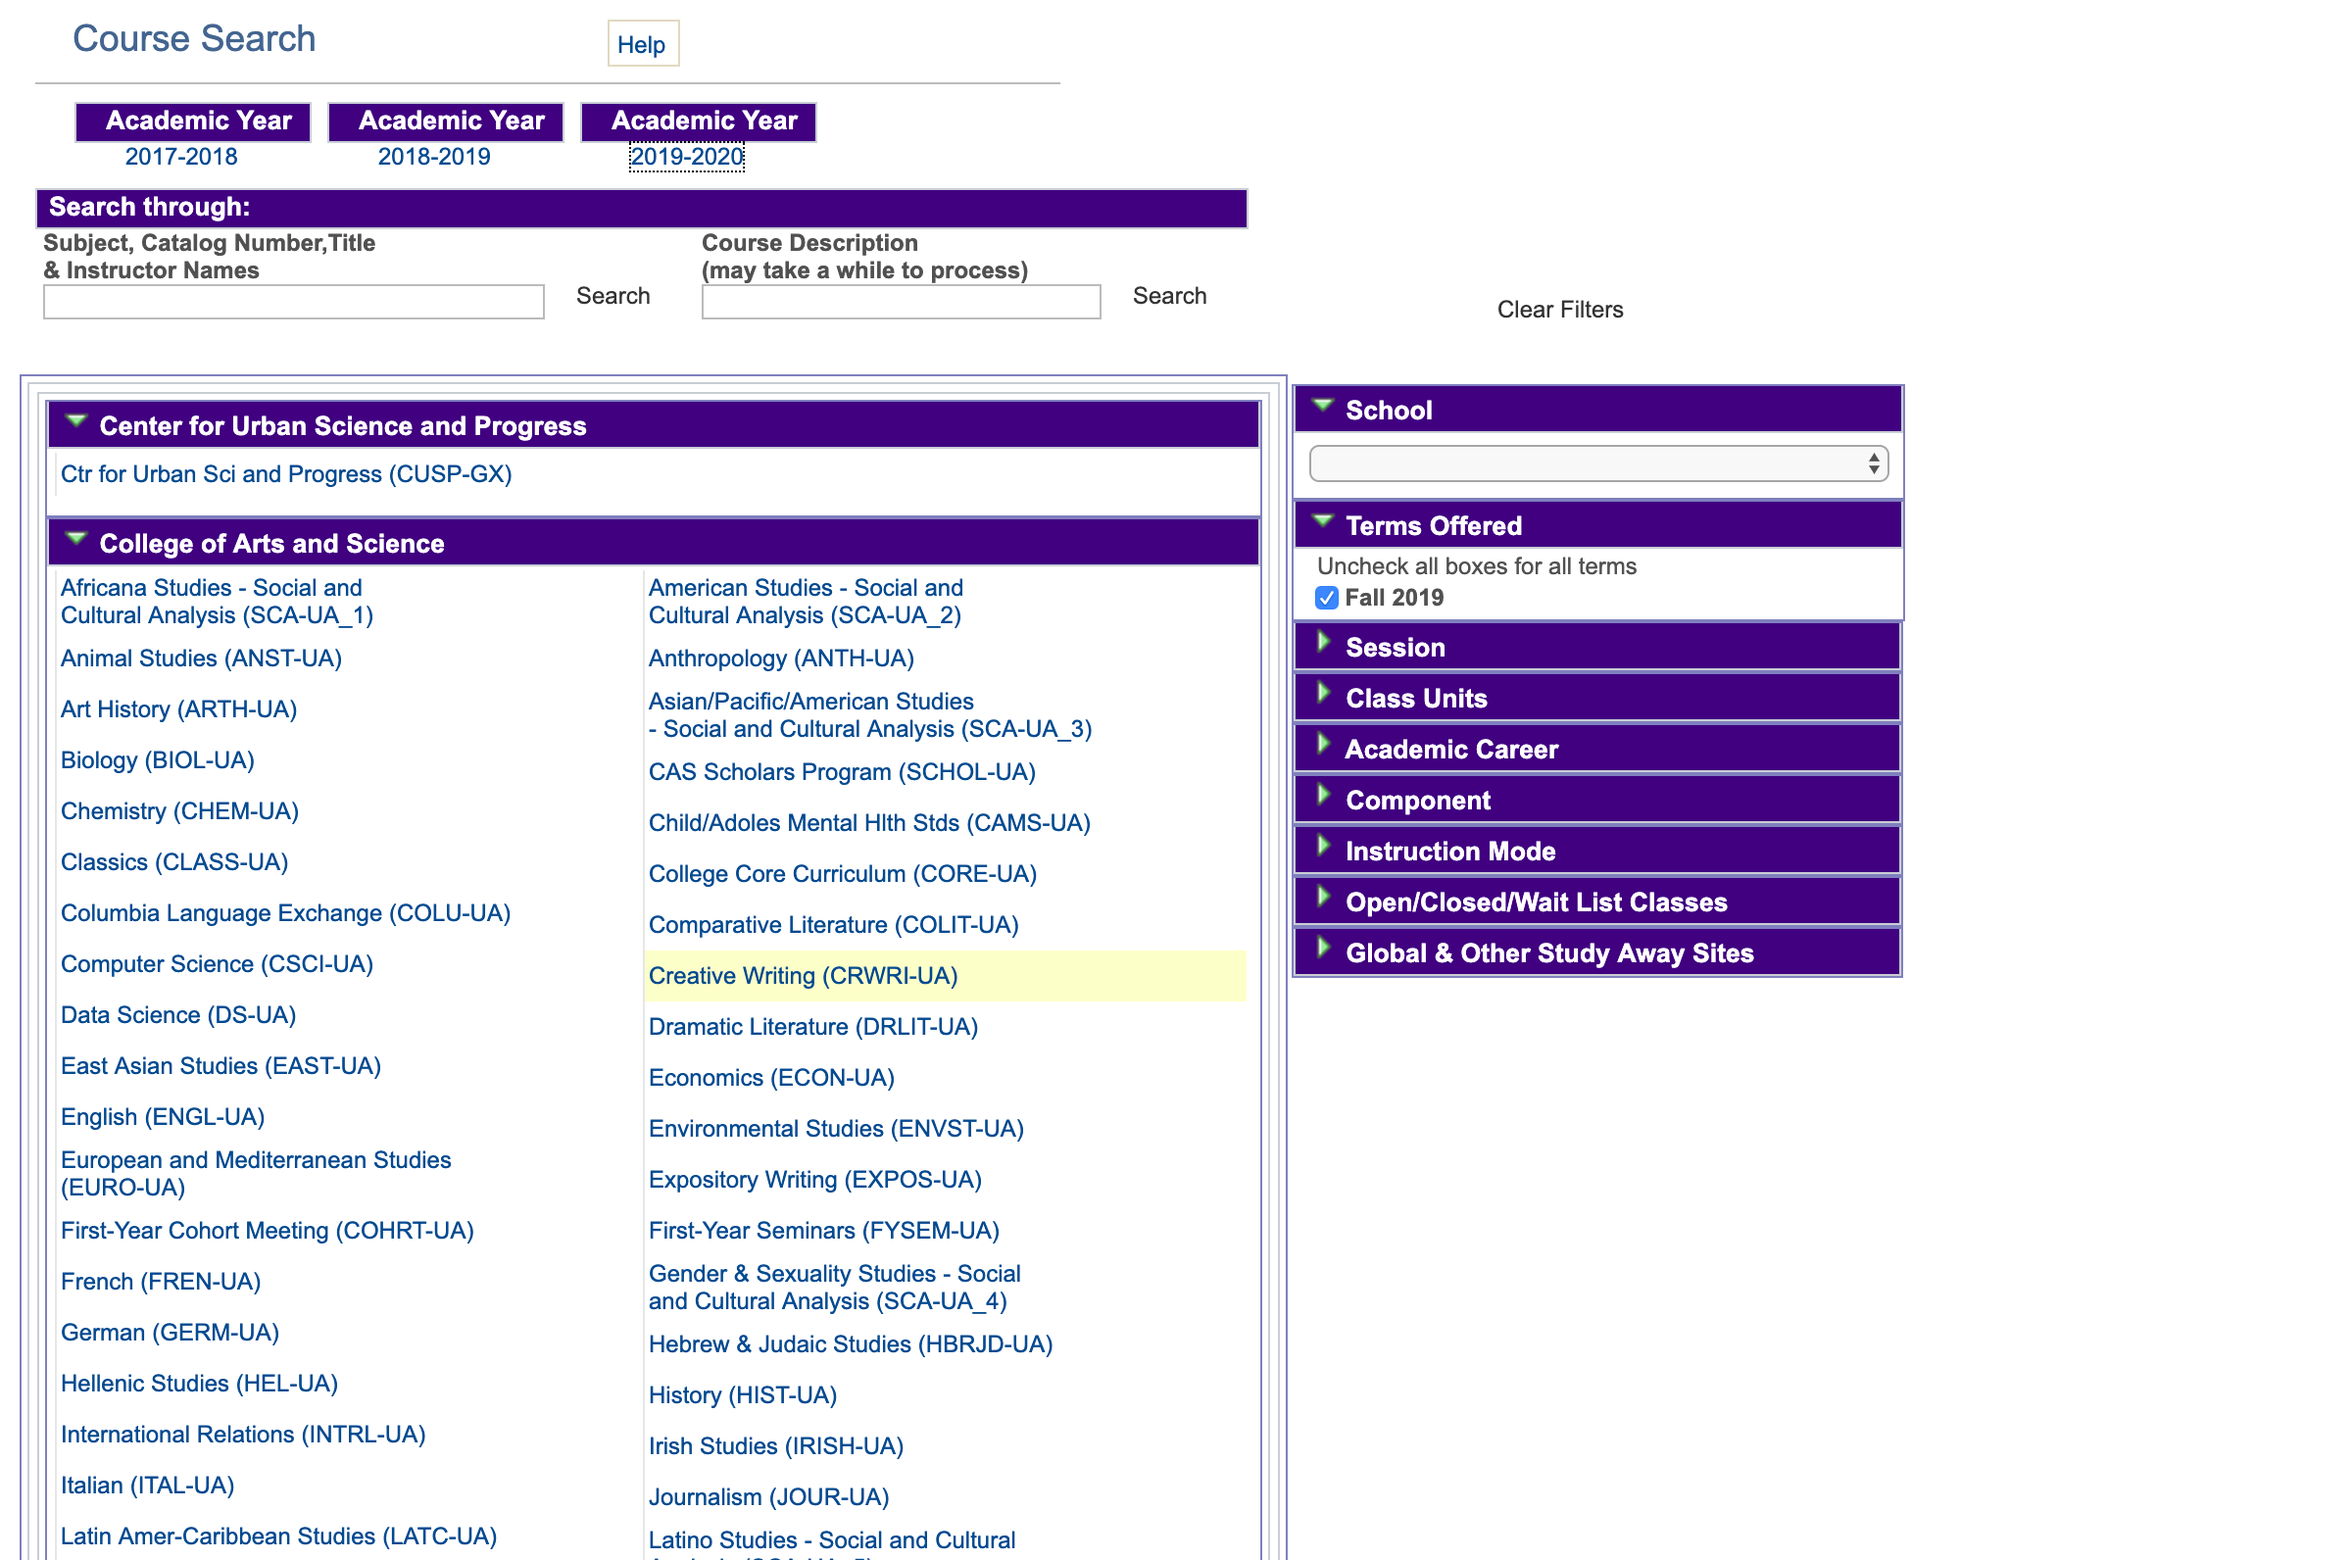
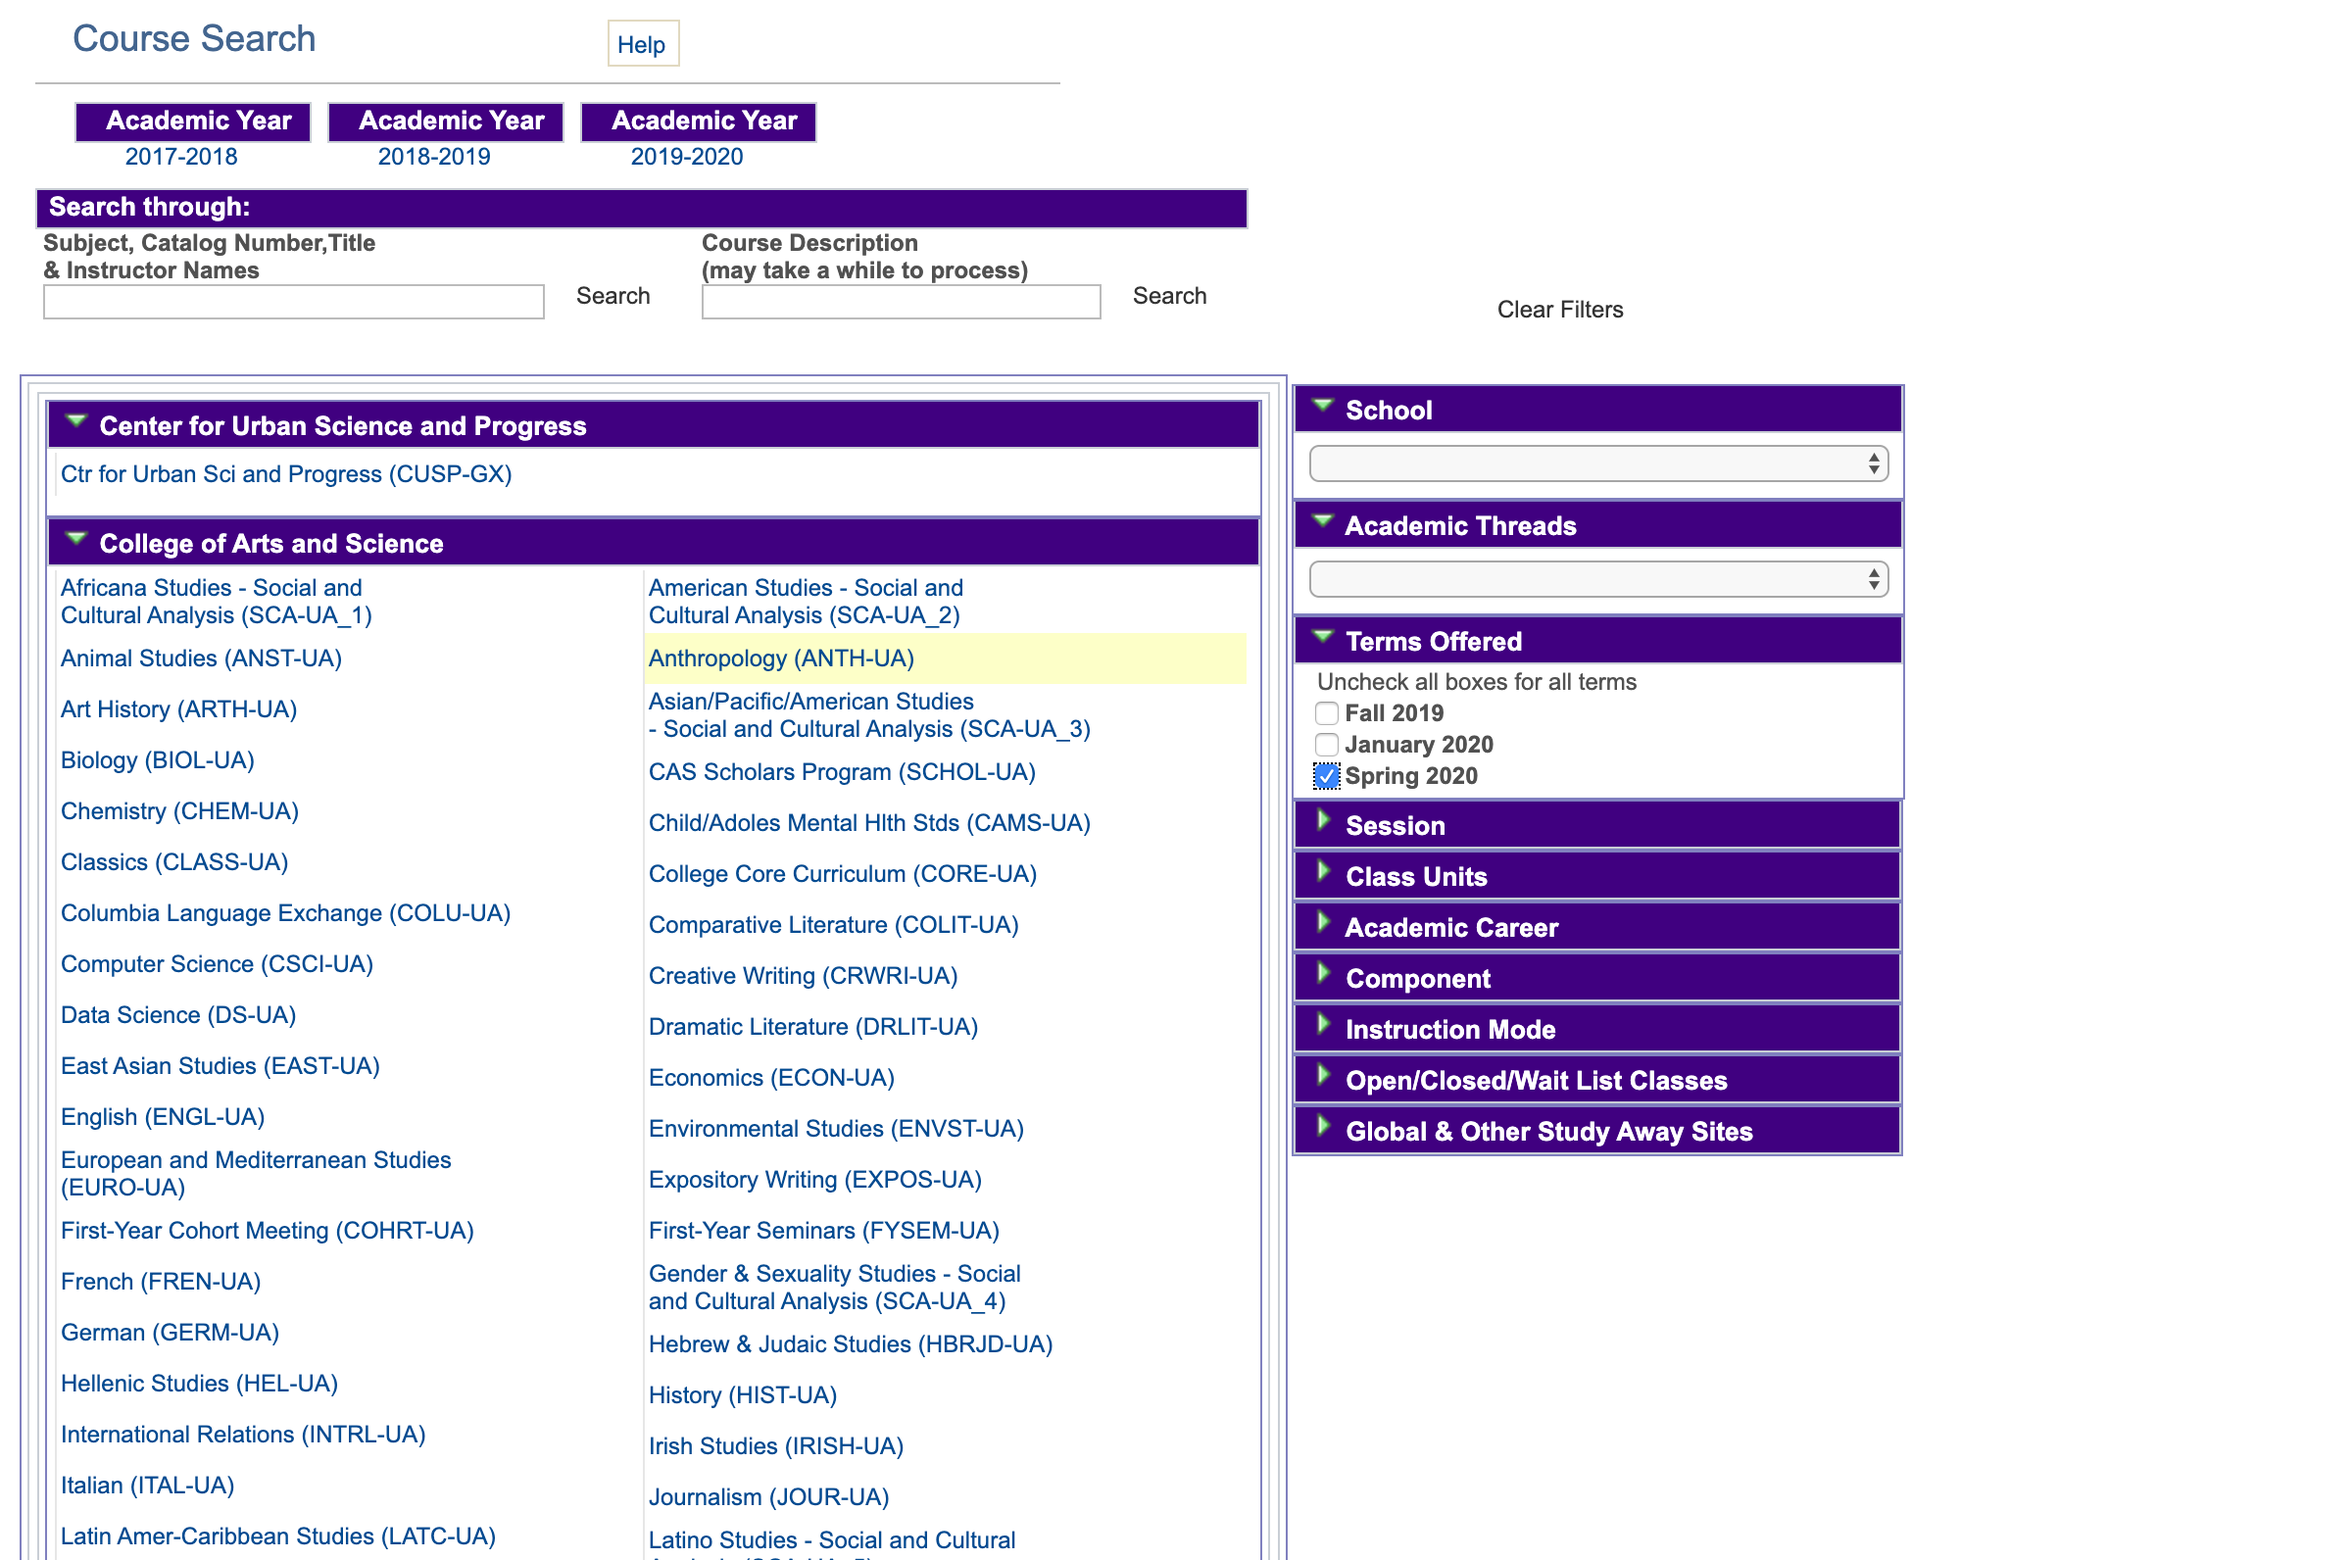
Spring 2020

diff --git a/client/landing.html b/client/landing.html
@@ -118,7 +118,7 @@
   <body>
     <div id="main" class="container">
       <div class="row">
-        <h2>Jeeves Course Planner: Fall 2019</h2>
+        <h2>Jeeves Course Planner: Spring 2020</h2>
         <h4>
           Use Jeeves to rapidly search for courses, and plan your schedule with
           a calendar view
@@ -138,7 +138,7 @@
             </p>
           </div>
         </div>
-        <small>Last updated 04/14/2019</small>
+        <small>Last updated 10/11/2019</small>
       </div>
     </div>
   </body>

diff --git a/scraper/majorscraper.py b/scraper/majorscraper.py
@@ -36,10 +36,10 @@ coursesearchlink.click()
 
 # We are now in the albert course search.
 checkbox = WebDriverWait(driver, timeout).until(
-        EC.presence_of_element_located((By.CSS_SELECTOR, "#NYU_CLS_WRK_NYU_FALL"))
+        EC.presence_of_element_located((By.CSS_SELECTOR, "#NYU_CLS_WRK_NYU_SPRING"))
     ) # selects the semester
 checkbox.click()
-time.sleep(5)
+time.sleep(10)
 
 """
     {
@@ -63,8 +63,8 @@ links = []
 # unless i only want nyu shanghai's
 select = Select(driver.find_element_by_id('NYU_CLS_WRK2_DESCR254$33$'))
 #select by visible text
-# select.select_by_visible_text('NYU Shanghai')
-time.sleep(5)
+select.select_by_visible_text('NYU Shanghai')
+time.sleep(10)
 
 for tag in driver.find_elements_by_tag_name("a"):
     tagid = tag.get_attribute("id")

diff --git a/scraper/albertscraper.py b/scraper/albertscraper.py
@@ -20,7 +20,7 @@ While the final result is put into courses.json, a json file is made for
 each major, in out/. 
 """
 
-DIRNAME = os.path.dirname(os.path.abspath(__file__)) + "/fall2019out/raw"
+DIRNAME = os.path.dirname(os.path.abspath(__file__)) + "/spring2020out/raw"
 
 def dumpJson(obj, subdir, fname):
     fname = fname.replace("/", "-").replace("&", " ")
@@ -47,10 +47,10 @@ coursesearchlink.click()
 
 # We are now in the albert course search.
 checkbox = WebDriverWait(driver, timeout).until(
-        EC.presence_of_element_located((By.CSS_SELECTOR, "#NYU_CLS_WRK_NYU_FALL"))
+        EC.presence_of_element_located((By.CSS_SELECTOR, "#NYU_CLS_WRK_NYU_SPRING"))
     ) # selects the semester
 checkbox.click()
-time.sleep(5)
+time.sleep(10)
 
 """
     {

diff --git a/scraper/courseprocesser.py b/scraper/courseprocesser.py
@@ -20,8 +20,8 @@ Calling the script using "python script.py min" will output a json
 file with no indentation.
 """
 DIRNAME   = os.path.dirname(os.path.abspath(__file__)) + "/"
-SOURCEDIR = "fall2019out/raw/"
-OUTPUTDIR = "fall2019out/permajor/"
+SOURCEDIR = "spring2020out/raw/"
+OUTPUTDIR = "spring2020out/permajor/"
 
 # s is a set
 def addWordsToSet(line, s):
